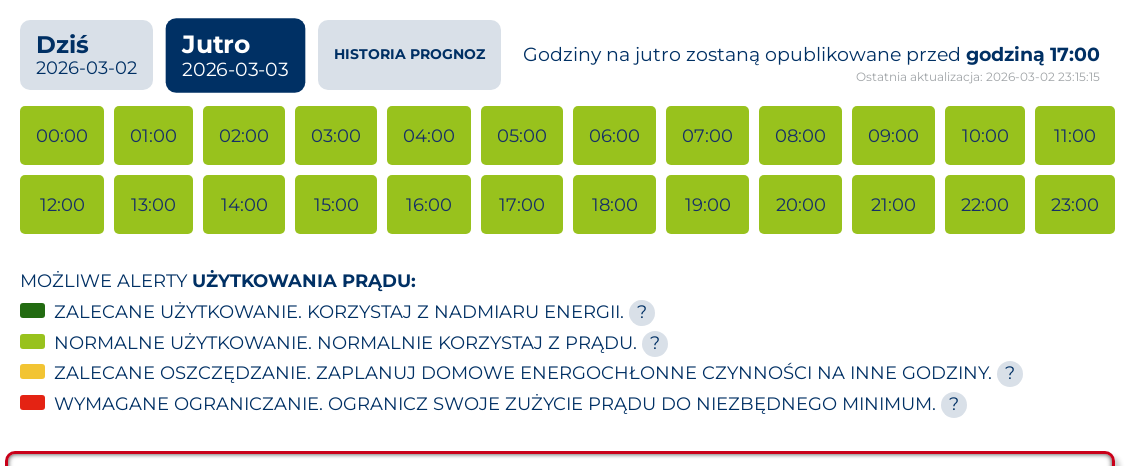
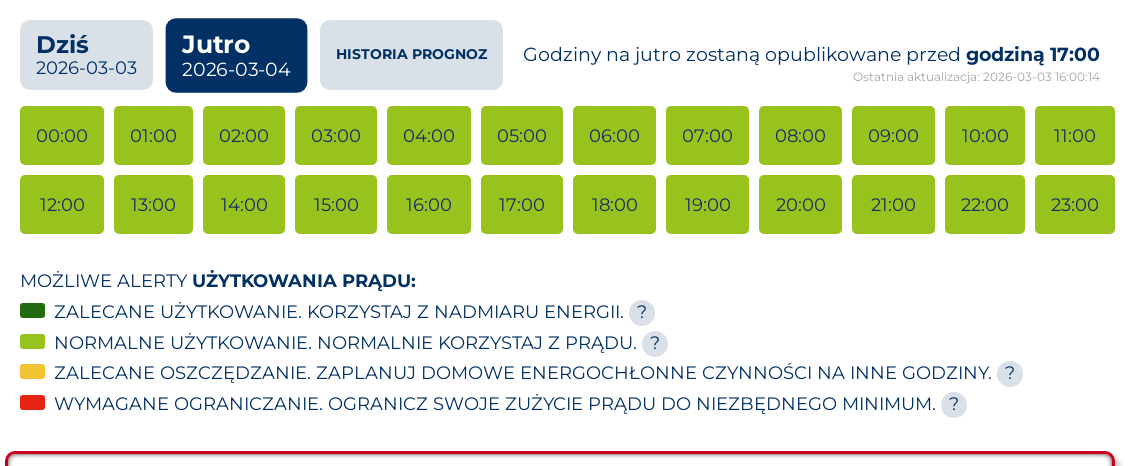
site: update 2026-03-03 16:00 UTC

Changed region(s): [[0.2467, 0.0901, 0.4317, 0.1803], [0.7401, 0.1502, 0.9868, 0.1803]]

diff --git a/site/html_01_tabele_wykresy_g14_today_tomorrow.html b/site/html_01_tabele_wykresy_g14_today_tomorrow.html
@@ -144,7 +144,7 @@
 <section class="hero">
   <div class="kicker">Dane</div>
   <h1>Taryfa — dzisiaj i jutro</h1>
-  <p class="muted">Strona wygenerowana: 2026-03-03 13:00:29</p>
+  <p class="muted">Strona wygenerowana: 2026-03-03 17:00:30</p>
   <p class="muted">Dane (dzisiaj) — ostatnia próbka: 2026-03-03 23:45:00</p>
   <p class="muted">Dane (jutro) — ostatnia próbka: brak danych</p>
 </section>
@@ -484,28 +484,28 @@
             <td class="left-1">11:00</td>
             <td class="left-2">11:15</td>
             <td class="sell-ok">0,304</td>
-            <td class="cat-c">0,484</td>
+            <td class="cat-c">0,434</td>
             <td class="cat-c">c</td>
           </tr>
           <tr>
             <td class="left-1">11:15</td>
             <td class="left-2">11:30</td>
             <td class="sell-ok">0,267</td>
-            <td class="cat-c">0,438</td>
+            <td class="cat-c">0,388</td>
             <td class="cat-c">c</td>
           </tr>
           <tr>
             <td class="left-1">11:30</td>
             <td class="left-2">11:45</td>
             <td class="sell-ok">0,219</td>
-            <td class="cat-b">0,379</td>
+            <td class="cat-b">0,329</td>
             <td class="cat-b">b</td>
           </tr>
           <tr>
             <td class="left-1">11:45</td>
             <td class="left-2">12:00</td>
             <td class="sell-ok">0,192</td>
-            <td class="cat-b">0,346</td>
+            <td class="cat-b">0,296</td>
             <td class="cat-b">b</td>
           </tr>
           <tr>
@@ -568,28 +568,28 @@
             <td class="left-1">14:00</td>
             <td class="left-2">14:15</td>
             <td class="sell-ok">0,237</td>
-            <td class="cat-b">0,402</td>
+            <td class="cat-b">0,352</td>
             <td class="cat-b">b</td>
           </tr>
           <tr>
             <td class="left-1">14:15</td>
             <td class="left-2">14:30</td>
             <td class="sell-ok">0,272</td>
-            <td class="cat-c">0,445</td>
+            <td class="cat-c">0,395</td>
             <td class="cat-c">c</td>
           </tr>
           <tr>
             <td class="left-1">14:30</td>
             <td class="left-2">14:45</td>
             <td class="sell-ok">0,319</td>
-            <td class="cat-c">0,502</td>
+            <td class="cat-c">0,452</td>
             <td class="cat-c">c</td>
           </tr>
           <tr>
             <td class="left-1">14:45</td>
             <td class="left-2">15:00</td>
             <td class="sell-ok">0,344</td>
-            <td class="cat-c">0,533</td>
+            <td class="cat-c">0,483</td>
             <td class="cat-c">c</td>
           </tr>
           <tr>

diff --git a/site/html_02_raport_ze_stanu_teraz.html b/site/html_02_raport_ze_stanu_teraz.html
@@ -18,7 +18,7 @@
   </div>
 
   <section class="hero">
-    <div class="kicker">Ostatni odczyt: 03.03.2026 16:45</div>
+    <div class="kicker">Ostatni odczyt: 03.03.2026 17:00</div>
     <h1>Raport ze stanu teraz</h1>
     <p>
       Taryfy Tauron:
@@ -42,7 +42,7 @@
       <tbody>
         <tr>
           <th style="width:40%;">Czas odczytu</th>
-          <td>03.03.2026 16:45</td>
+          <td>03.03.2026 17:00</td>
         </tr>
         <tr>
           <th>Położenie</th>
@@ -62,7 +62,7 @@
       <tbody>
         <tr>
           <th style="width:40%;">Produkcja PV dzisiaj [kWh]</th>
-          <td>12.00</td>
+          <td>12.10</td>
         </tr>
         <tr>
           <th>Zużycie energii dzisiaj [kWh]</th>
@@ -94,23 +94,23 @@
       <tbody>
         <tr>
           <th style="width:40%;">Moc PV [W]</th>
-          <td>677</td>
+          <td>0</td>
         </tr>
         <tr>
           <th>Moc z PV do systemu [W]</th>
-          <td>677</td>
+          <td>0</td>
         </tr>
         <tr>
           <th>Moc do domu [W]</th>
-          <td>660</td>
+          <td>0</td>
         </tr>
         <tr>
           <th>Moc z / do sieci [W]</th>
-          <td>17</td>
+          <td>0</td>
         </tr>
         <tr>
           <th>Moc z / do baterii [W]</th>
-          <td>660</td>
+          <td>0</td>
         </tr>
       </tbody>
     </table>
@@ -122,15 +122,15 @@
       <tbody>
         <tr>
           <th style="width:40%;">Stan naładowania baterii SOC [%]</th>
-          <td>85.0</td>
+          <td>86.0</td>
         </tr>
         <tr>
           <th>Tryb pracy baterii</th>
-          <td>Charging</td>
+          <td>Standby</td>
         </tr>
         <tr>
           <th>Dostępna energia w baterii [kWh]</th>
-          <td>9.00</td>
+          <td>9.10</td>
         </tr>
       </tbody>
     </table>
@@ -150,7 +150,7 @@
         </tr>
         <tr>
           <th>Napięcie [V]</th>
-          <td>235.76</td>
+          <td>232.20</td>
         </tr>
         <tr>
           <th>Prąd [A]</th>

diff --git a/site/html_03_g13_g14_porownanie.html b/site/html_03_g13_g14_porownanie.html
@@ -18,7 +18,7 @@
   </div>
 
   <section class="hero">
-    <div class="kicker">Ceny sprzedaży i zakupu energii oraz tryb SolaX (ostatni odczyt: 2026-03-03 16:45:01, strona wygenerowana 2026-03-03 16:45:14)</div>
+    <div class="kicker">Ceny sprzedaży i zakupu energii oraz tryb SolaX (ostatni odczyt: 2026-03-03 17:00:00, strona wygenerowana 2026-03-03 17:00:31)</div>
     <h1>Ceny energii i tryb SolaX</h1>
     <p>
       Taryfy Tauron:
@@ -44,7 +44,7 @@
       <tbody>
         <tr>
           <td>Cena sprzedaży energii (SELL)</td>
-          <td>0,601</td>
+          <td>0,607</td>
         </tr>
         <tr>
           <td>Cena zakupu energii w taryfie G13</td>
@@ -52,7 +52,7 @@
         </tr>
         <tr>
           <td>Cena zakupu energii w taryfie G14</td>
-          <td>0,849</td>
+          <td>0,857</td>
         </tr>
       </tbody>
     </table>
